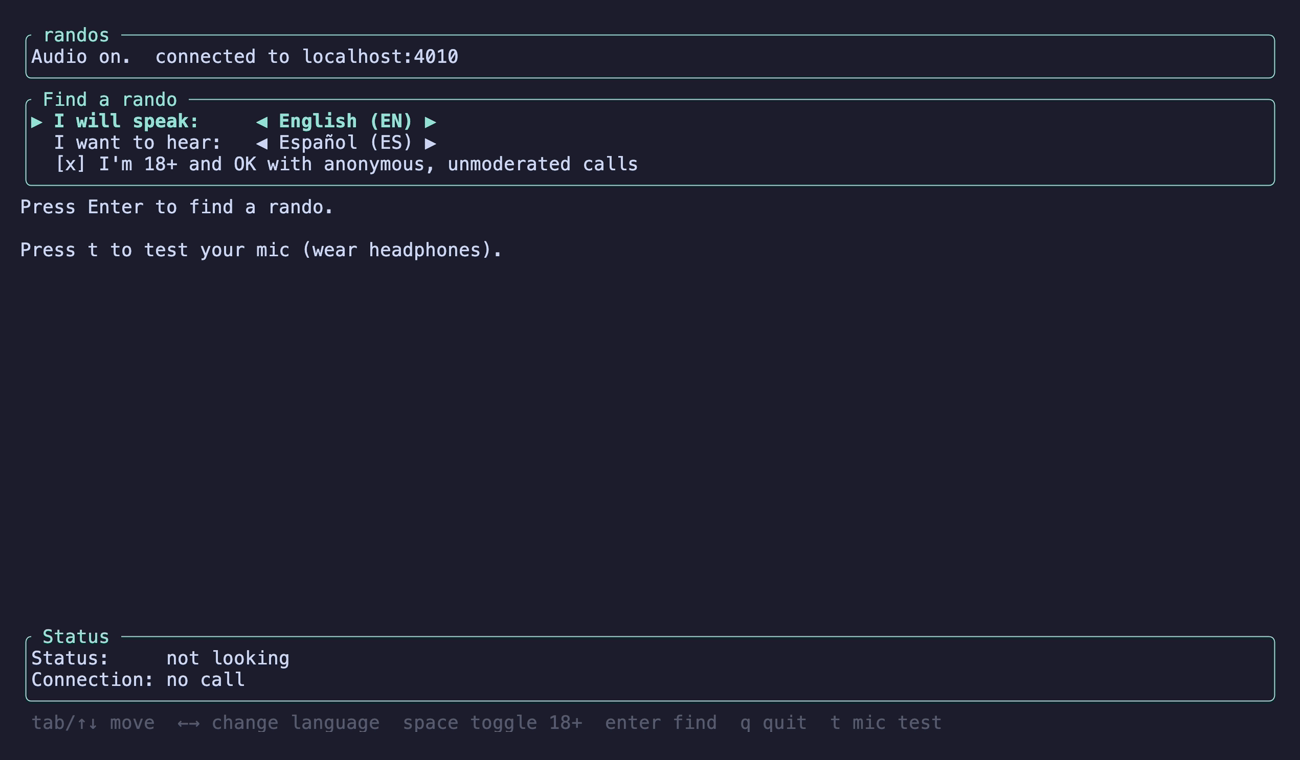
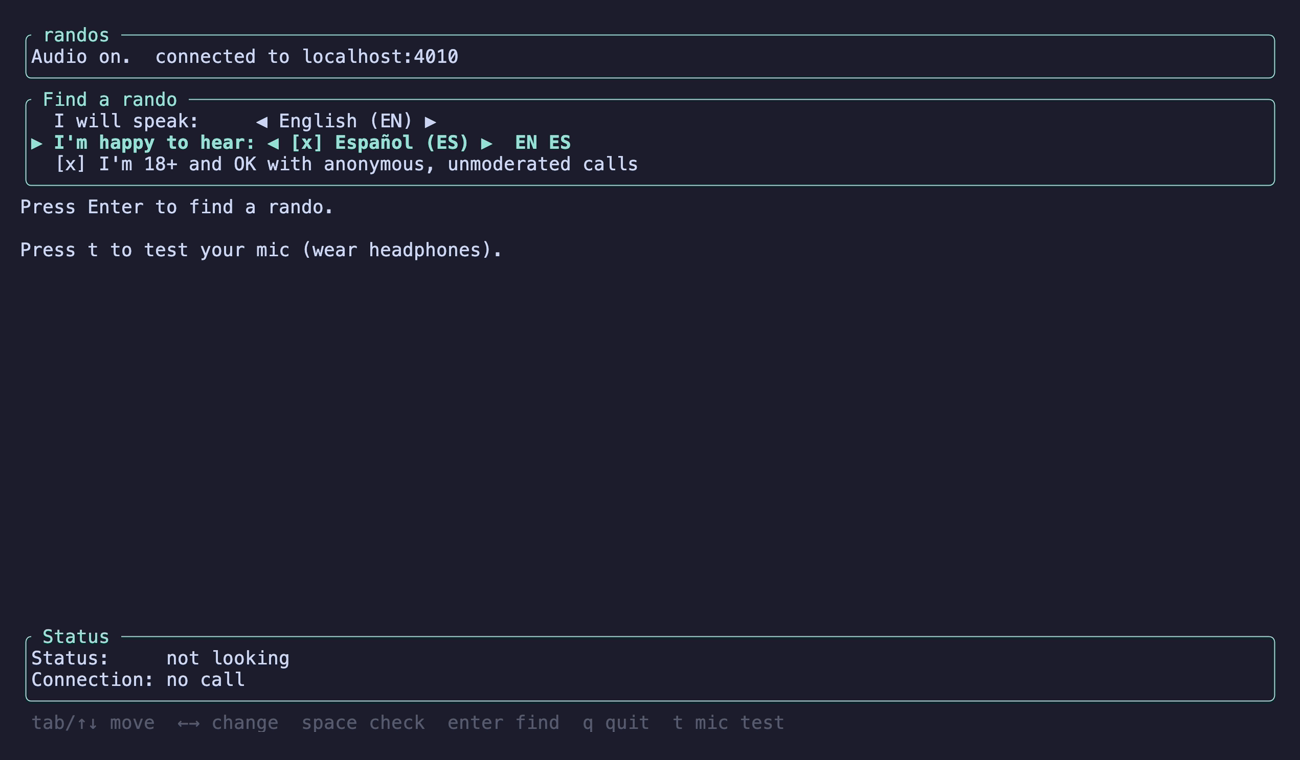
Matching lane's shared-doc text; screenshots of the new forms
- privacy.md: the TUI's local settings file; the 90 s rematch memory.
- AGENTS.md: the Matchmaker's rule and the rematch window constant.
- Roadmap: hearing several languages, no quick rematches, and the TUI
  config file done, with the decisions made while building them.
- README screenshots: the hearing checkboxes and the TUI's multi-select.

diff --git a/docs/architecture/refactor_plan.md b/docs/architecture/refactor_plan.md
@@ -637,8 +637,7 @@ No behaviour changes.
 
 Not scheduled; pick up when relevant.
 
-- **Hearing several languages (designed 2026-10-21; next after the
-  benchmark and review-page lanes).** Each person speaks one language and
+- **Hearing several languages (done 2026-10-21).** Each person speaks one language and
   picks any number they're comfortable hearing. Two people match when each
   one's speaking language is among the other's hearing languages: the same
   language both ways, or crosstalk. Owner's decisions: the speaking
@@ -648,7 +647,12 @@ Not scheduled; pick up when relevant.
   the waiting list (fine at 15 languages); the browser form gets
   checkboxes; the TUI a multi-select; the channel's `find` accepts a list
   while still taking a single language from v0.2.0 TUIs (a protocol change:
-  the mini-pass applies).
+  the mini-pass applies). Built as designed, plus: when the speaking
+  language changes, the auto-checked one is replaced by the new one (a
+  language the person checked themselves stays), in both clients; the call
+  map gains `peer_speaks` (the rando's language), shown in both clients.
+  Mini-pass done: `participant_channel.md`, both clients, the obligation
+  tests.
 - **Relay regions (designed 2026-10-21; build when users far from New
   York appear).** One relay per region (New York now; Frankfurt, then
   Singapore), each person given the one nearest them.
@@ -682,9 +686,13 @@ Not scheduled; pick up when relevant.
 - **CI (done).** `.github/workflows/ci.yml`: `just precommit` on macOS and
   Linux (with `RANDOS_REQUIRE_NATIVE=1`), plus `just smoke` and
   `just tui-smoke`. Deploys stay manual (`just deploy`).
-- **Same pair rematching on "Next" (decided 2026-10-21: fix).** Two people
-  who just ended a call aren't matched again for a short while (a minute or
-  two), remembered in the Matchmaker's memory only and forgotten after.
+- **Same pair rematching on "Next" (done 2026-10-21).** Two people who just
+  ended a call aren't matched again for `Lifecycle.rematch_window_seconds/0`
+  (90 s), remembered in the Matchmaker's memory only; when the window closes
+  and both are still waiting, a timer matches them. A side effect: a call
+  that never connects no longer rematches the same pair in a loop. Open:
+  the only two people waiting after a failed call now wait 90 s with no
+  message.
 - **`RandosWeb.IceServers` reads env vars per call.** Move them to
   `config/runtime.exs` so misconfiguration fails at boot instead of silently
   falling back to Google STUN.
@@ -701,7 +709,7 @@ Not scheduled; pick up when relevant.
   projects).** `turn-client-rustls` 0.1.2 gives rustls one `read_tls` per
   chunk, losing bytes past 4 KiB (worked around in `Relay::recv`); and
   `str0m-rust-crypto` pulls in AWS-LC through `dimpl`'s `rcgen` feature.
-- **TUI config file (decided 2026-10-21: do it).** A small file in the
+- **TUI config file (done 2026-10-21; `Tui.Config`).** A small file in the
   user's config directory (`~/.config/randos/`, or the platform's) keeping
   the chosen mic and speaker, the languages, and that the 18+ notice was
   agreed to. Local only; nothing goes to the server.

diff --git a/docs/privacy.md b/docs/privacy.md
@@ -25,6 +25,7 @@ something can't be checked from the outside, this says so.
 | **The web server** (Phoenix, on Fly.io) | Your IP address while you're connected (any website does); the languages you chose; the connection messages for your call, never the audio | Events such as "call started" and "call ended", tagged with random call and match IDs. No IP addresses, no languages, no identifiers that outlive the call. | Our host, Fly.io, keeps app logs for a limited time; we don't send them anywhere else |
 | **The relay** (coturn, a DigitalOcean droplet) | Both IP addresses of each relayed call, its timing, and its encrypted packets, which it can't decrypt | Errors only: no line per session or per caller | Up to 2 MB of rotated error log on the droplet, overwritten as it fills |
 | **Your browser** | Your choice of interface language, if you pick one | A `randos_locale` cookie holding only the language code (e.g. `es`), so the next visit is in your language; it identifies no one and goes nowhere else. Phoenix's session cookie (CSRF protection) also carries the language for the page. | A year, or until you clear it |
+| **Your terminal (the TUI)** | Nothing new | A settings file on your own computer (`~/.config/randos/config.json`, or `~/Library/Application Support/randos/config.json` on macOS): your languages, that you confirmed the 18+ notice, and the mic and speaker names. It never leaves your computer. | Until you delete it |
 | **Your rando's browser or terminal** | The relay's address, never yours; your voice | Nothing (randos has no recording feature) | Not applicable |
 
 ### The web server
@@ -39,6 +40,9 @@ something can't be checked from the outside, this says so.
   ([`config/prod.exs`](../config/prod.exs)). Phoenix's request logs
   include no client addresses. We checked production's logs on
   2026-10-21: no line contained an IP address.
+- **What it briefly remembers:** after a call, the server remembers for 90
+  seconds that the two of you just talked (by the anonymous ids of that
+  visit only), so "Next" finds someone new.
 - **What it can't do:** it relays the connection messages (offers,
   answers, candidates) between the two of you, but it never receives audio.
 

diff --git a/AGENTS.md b/AGENTS.md
@@ -81,7 +81,7 @@ are product requirements, not suggestions. Don't add features that violate them.
 | Layer | Module(s) | Owns |
 | --- | --- | --- |
 | Call model | `Randos.Calls.Call` (struct), `Randos.Calls.Lifecycle` (pure) | Public call state; timing constants and valid status transitions |
-| Matchmaking | `Randos.Matchmaking.Matchmaker` (singleton GenServer) | Live queue membership, keyed by `{speaks, listens}` |
+| Matchmaking | `Randos.Matchmaking.Matchmaker` (singleton GenServer) | Live queue membership: one waiting list, oldest first; a match needs each person's speaking language among the other's hearing languages (`Entry.compatible?/2`); recently matched pairs are kept apart for `Lifecycle.rematch_window_seconds/0` |
 | Calls | `Randos.Calls.CallCoordinator` (`:gen_statem`, one per call, under `Randos.Calls.CallSupervisor`) | State timeouts, extension votes, participant monitoring, media signal relay, and **call health** (connect timeout, disconnected grace, failure) from clients' raw `media_state` reports. Clients follow "Client obligations" in `participant_channel.md` and run no health timers of their own |
 | Signaling | `Randos.Signaling` | WebRTC signaling message shape/validation, and the relay-only filter (server never touches media) |
 | Participant core | `Randos.Participant` (pure) | One person's flow: find → queue → call → back. `handle(participant, event) :: {participant, [effect]}` |
@@ -95,7 +95,7 @@ are product requirements, not suggestions. Don't add features that violate them.
 - **No database.** All state lives in processes and vanishes on restart.
   Don't add Ecto/Postgres without asking.
 - Call timing constants (segments, extensions, the vote timeout, the connect
-  timeout, the disconnected grace) live in `Randos.Calls.Lifecycle`, the one
+  timeout, the disconnected grace, the rematch window) live in `Randos.Calls.Lifecycle`, the one
   source of truth. Reuse them; don't hardcode them in the server or a client.
 - ICE/TURN config: `RandosWeb.IceServers` (env-driven; see `docs/self-hosting.md`).
   Calls are relay-only whenever a TURN server is configured: the policy is
